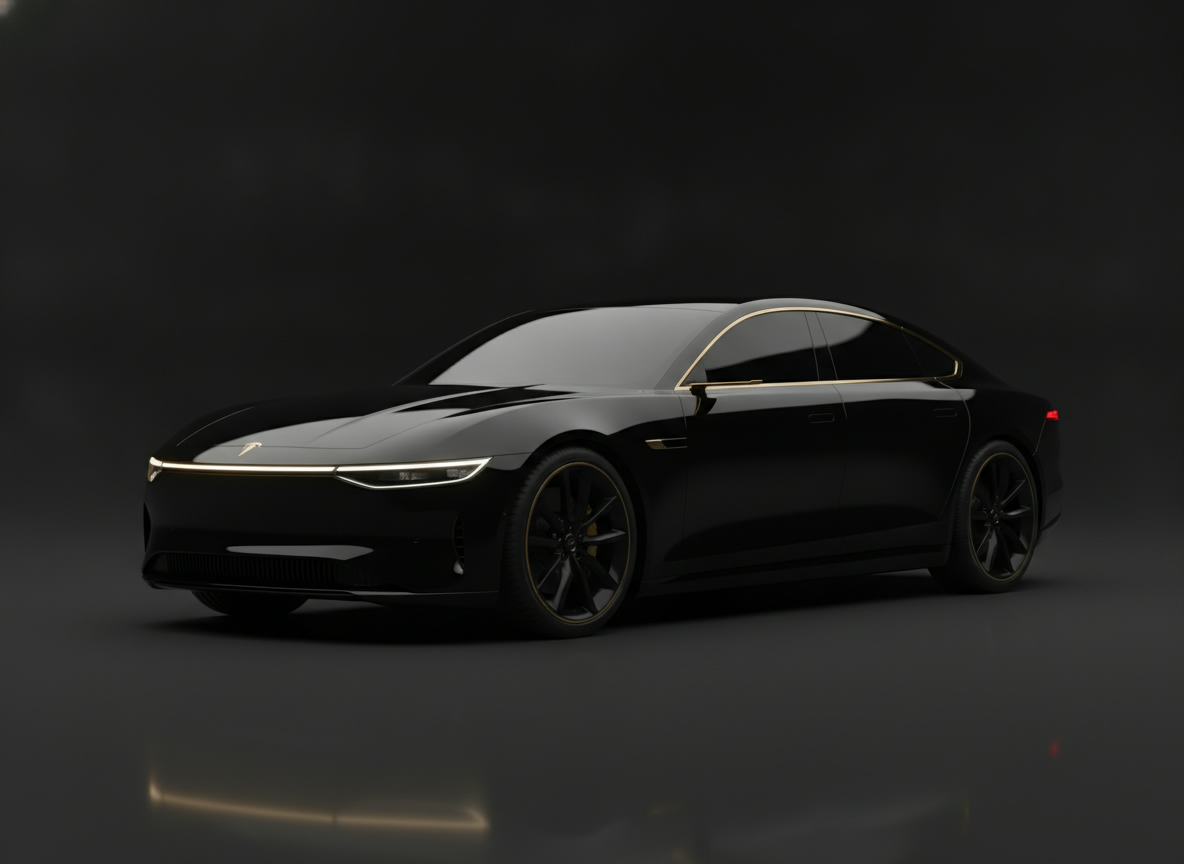
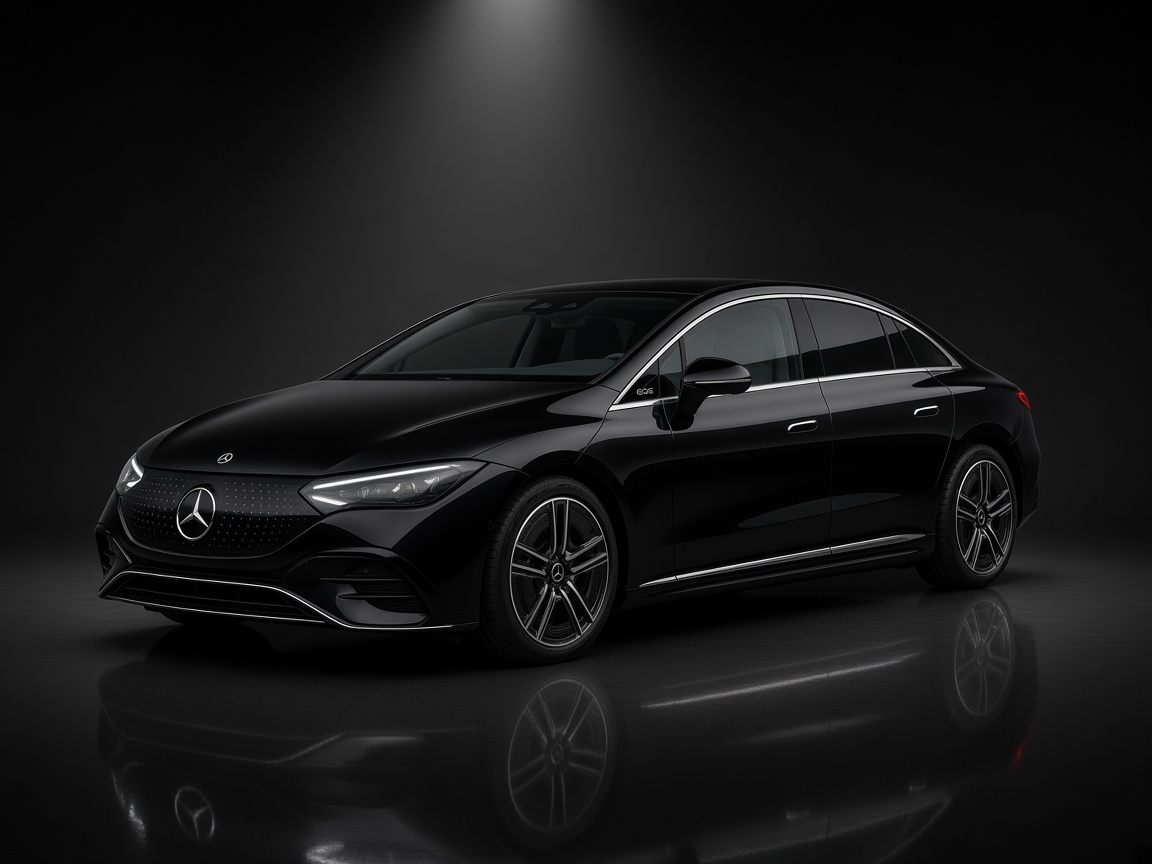
feat: footer social links and badges, Radlett office, help policy
- Footer: social icons with real profile URLs (Facebook, Instagram, LinkedIn, X, WhatsApp, YouTube); removed Pinterest/Snapchat/TikTok
- Footer: App Store/Google Play badges sized consistently (cropped Play SVG padding), TFL licence badge, fixed 2024 copyright
- Contact: add Radlett office address card (CORPORATE WHEELS LTD)
- Help: update Cancellation & Refunds policy (6-hour notice, 50% charge)
- Fleet: replace Tesla render with Mercedes-Benz EQE; add E-Class image for Business Executive
- SocialConnect: swap founder image to PNG

diff --git a/client/components/site/Footer.tsx b/client/components/site/Footer.tsx
@@ -2,6 +2,101 @@ import { useState } from "react";
 import { Link } from "react-router-dom";
 import { useToast } from "@/hooks/use-toast";
 
+// Social profiles shown in the footer brand column.
+const SOCIAL_LINKS = [
+  {
+    label: "Facebook",
+    href: "https://www.facebook.com/people/Corporate-Wheels/61583863736398/",
+    icon: (
+      <svg viewBox="0 0 24 24" className="h-9 w-9" aria-hidden="true">
+        <circle cx="12" cy="12" r="12" fill="#1877F2" />
+        <svg x="7.9" y="5.5" width="8.2" height="13" viewBox="0 0 320 512">
+          <path
+            fill="#fff"
+            d="M279.14 288l14.22-92.66h-88.91v-60.13c0-25.35 12.42-50.06 52.24-50.06h40.42V6.26S260.43 0 225.36 0c-73.22 0-121.08 44.38-121.08 124.72v70.62H22.89V288h81.39v224h100.17V288z"
+          />
+        </svg>
+      </svg>
+    ),
+  },
+  {
+    label: "Instagram",
+    href: "https://www.instagram.com/corporate_wheels",
+    icon: (
+      <svg viewBox="0 0 24 24" className="h-9 w-9" aria-hidden="true">
+        <defs>
+          <radialGradient id="cw-ig-gradient" cx="0.3" cy="1.1" r="1.3">
+            <stop offset="0%" stopColor="#FFD600" />
+            <stop offset="35%" stopColor="#FF7A00" />
+            <stop offset="60%" stopColor="#FF0069" />
+            <stop offset="90%" stopColor="#7638FA" />
+          </radialGradient>
+        </defs>
+        <rect width="24" height="24" rx="6" fill="url(#cw-ig-gradient)" />
+        <rect x="4.2" y="4.2" width="15.6" height="15.6" rx="4.4" fill="none" stroke="#fff" strokeWidth="1.8" />
+        <circle cx="12" cy="12" r="3.7" fill="none" stroke="#fff" strokeWidth="1.8" />
+        <circle cx="16.4" cy="7.6" r="1.1" fill="#fff" />
+      </svg>
+    ),
+  },
+  {
+    label: "LinkedIn",
+    href: "https://www.linkedin.com/company/corporate-wheels-pvt-ltd/",
+    icon: (
+      <svg viewBox="0 0 24 24" className="h-9 w-9" aria-hidden="true">
+        <rect width="24" height="24" rx="4" fill="#0A66C2" />
+        <svg x="6.3" y="5.5" width="11.4" height="13" viewBox="0 0 448 512">
+          <path
+            fill="#fff"
+            d="M100.28 448H7.4V148.9h92.88zM53.79 108.1C24.09 108.1 0 83.5 0 53.8a53.79 53.79 0 0 1 107.58 0c0 29.7-24.1 54.3-53.79 54.3zM447.9 448h-92.68V302.4c0-34.7-.7-79.2-48.29-79.2-48.29 0-55.69 37.7-55.69 76.7V448h-92.78V148.9h89.08v40.8h1.3c12.4-23.5 42.69-48.3 87.88-48.3 94 0 111.28 61.9 111.28 119.6V448z"
+          />
+        </svg>
+      </svg>
+    ),
+  },
+  {
+    label: "X (Twitter)",
+    href: "https://x.com/_corporatewheel",
+    icon: (
+      <svg viewBox="0 0 24 24" className="h-9 w-9" aria-hidden="true">
+        <circle cx="12" cy="12" r="12" fill="#000" />
+        <circle cx="12" cy="12" r="11.6" fill="none" stroke="rgba(255,255,255,0.25)" strokeWidth="0.8" />
+        <svg x="6.5" y="6.5" width="11" height="11" viewBox="0 0 512 512">
+          <path
+            fill="#fff"
+            d="M389.2 48h70.6L305.6 224.2 487 464H345L233.7 318.6 106.5 464H35.8L200.7 275.5 26.8 48H172.4L272.9 180.9 389.2 48zM364.4 421.8h39.1L151.1 88h-42L364.4 421.8z"
+          />
+        </svg>
+      </svg>
+    ),
+  },
+  {
+    label: "WhatsApp",
+    href: "https://wa.me/4403333553755?text=Hi%20Corporate%20Wheels%2C%20I%27d%20like%20to%20enquire%20about%20a%20chauffeur%20booking.",
+    icon: (
+      <svg viewBox="0 0 24 24" className="h-9 w-9" aria-hidden="true">
+        <circle cx="12" cy="12" r="12" fill="#25D366" />
+        <svg x="5.9" y="5" width="12.2" height="14" viewBox="0 0 448 512">
+          <path
+            fill="#fff"
+            d="M380.9 97.1C339 55.1 283.2 32 223.9 32c-122.4 0-222 99.6-222 222 0 39.1 10.2 77.3 29.6 111L0 480l117.7-30.9c32.4 17.7 68.9 27 106.1 27h.1c122.3 0 224.1-99.6 224.1-222 0-59.3-25.2-115-67.1-157zm-157 341.6c-33.2 0-65.7-8.9-94-25.7l-6.7-4-69.8 18.3L72 359.2l-4.4-7c-18.5-29.4-28.2-63.3-28.2-98.2 0-101.7 82.8-184.5 184.6-184.5 49.3 0 95.6 19.2 130.4 54.1 34.8 34.9 56.2 81.2 56.1 130.5 0 101.8-84.9 184.6-186.6 184.6zm101.2-138.2c-5.5-2.8-32.8-16.2-37.9-18-5.1-1.9-8.8-2.8-12.5 2.8-3.7 5.6-14.3 18-17.6 21.6-3.2 3.7-6.5 4.2-12 1.4-32.6-16.3-54-29.1-75.5-66-5.7-9.8 5.7-9.1 16.3-30.3 1.8-3.7.9-6.9-.5-9.7-1.4-2.8-12.5-30.1-17.1-41.2-4.5-10.8-9.1-9.3-12.5-9.5-3.2-.2-6.9-.2-10.6-.2-3.7 0-9.7 1.4-14.7 6.9-5.1 5.6-19.4 19-19.4 46.3 0 27.3 19.9 53.7 22.6 57.4 2.8 3.7 39.1 59.7 94.8 83.8 35.2 15.2 49 16.5 66.6 13.9 10.7-1.6 32.8-13.4 37.4-26.4 4.6-13 4.6-24.1 3.2-26.4-1.3-2.5-5.1-3.9-10.6-6.6z"
+          />
+        </svg>
+      </svg>
+    ),
+  },
+  {
+    label: "YouTube",
+    href: "https://www.youtube.com/channel/UCOSJtjdCIlGSk0SaNlN3UPA",
+    icon: (
+      <svg viewBox="0 0 24 24" className="h-9 w-9" aria-hidden="true">
+        <rect x="0.5" y="3.5" width="23" height="17" rx="4.5" fill="#FF0000" />
+        <path d="M10 8.6v6.8l6.2-3.4z" fill="#fff" />
+      </svg>
+    ),
+  },
+];
+
 export default function Footer() {
   const { toast } = useToast();
   const [email, setEmail] = useState("");
@@ -37,16 +132,61 @@ export default function Footer() {
           </p>
 
           <div className="space-y-4">
-            <div className="mt-6 flex items-center gap-4">
-              <div className="w-16">
-                <img
-                  src="/images/cw-placeholder.svg"
-                  alt="ICO"
-                  className="w-full h-auto object-contain"
-                />
+            <div className="mt-6 w-24 rounded-lg bg-white p-1.5">
+              <img
+                src="/images/tfl-logo.png"
+                alt="Licensed by Transport for London — Private Hire Operator Licence No. 12096"
+                className="w-full h-auto object-contain"
+              />
+            </div>
+          </div>
+
+          {/* Social media + app store badges (left brand column) */}
+          <div className="space-y-5 pt-2">
+            <div>
+              <h4 className="text-neutral-900 dark:text-white font-heading font-semibold text-sm uppercase tracking-wider mb-3">
+                Follow Us
+              </h4>
+              <div className="flex flex-wrap items-center gap-2">
+                {SOCIAL_LINKS.map((social) => (
+                  <a
+                    key={social.label}
+                    href={social.href}
+                    target="_blank"
+                    rel="noreferrer"
+                    aria-label={social.label}
+                    className="transition-transform duration-200 hover:scale-110 hover:-translate-y-0.5"
+                  >
+                    {social.icon}
+                  </a>
+                ))}
               </div>
             </div>
 
+            <div className="flex flex-wrap items-center gap-3">
+              <a
+                href="#"
+                aria-label="Download on the App Store"
+                className="transition-opacity duration-200 hover:opacity-80"
+              >
+                <img
+                  src="/images/download-on-the-app-store.svg"
+                  alt="Download on the App Store"
+                  className="h-10 w-auto"
+                />
+              </a>
+              <a
+                href="#"
+                aria-label="Get it on Google Play"
+                className="transition-opacity duration-200 hover:opacity-80"
+              >
+                <img
+                  src="/images/GetItOnGooglePlay_Badge_Web_color_English-01.svg"
+                  alt="Get it on Google Play"
+                  className="h-10 w-auto"
+                />
+              </a>
+            </div>
           </div>
         </div>
 
@@ -175,7 +315,7 @@ export default function Footer() {
       <div className="border-t border-black/10 dark:border-white/10 bg-white/60 dark:bg-black/60">
         <div className="container py-6 text-xs text-muted-foreground flex flex-col md:flex-row items-center justify-between font-light">
           <p>
-            © {new Date().getFullYear()} Corporate Wheels. All rights reserved.
+            © 2024 Corporate Wheels. All rights reserved.
           </p>
           <p className="mt-2 md:mt-0 italic text-neutral-900/30 dark:text-white/30">
             Built for comfort, designed for the future.

diff --git a/client/pages/Contact.tsx b/client/pages/Contact.tsx
@@ -22,7 +22,16 @@ import {
 import Seo from "@/components/Seo";
 
 // Corporate Locations
-const locationsData = [
+type OfficeLocation = {
+  name: string;
+  address: string;
+  badge: string;
+  phone?: string;
+  email?: string;
+  timezone?: string;
+};
+
+const locationsData: OfficeLocation[] = [
   {
     name: "Corporate Wheels HQ",
     address: "450 Bath Road, Longford, Heathrow, UB7 0EB",
@@ -30,6 +39,11 @@ const locationsData = [
     email: "info@corporatewheels.co.uk",
     badge: "Registered Office",
     timezone: "GMT / BST"
+  },
+  {
+    name: "CORPORATE WHEELS LTD",
+    address: "Nurali Barkatali Virani\nCentre 42 Watling Street\nRadlett\nWD7 7NN\nUnited Kingdom",
+    badge: "Office Address"
   }
 ];
 
@@ -361,20 +375,26 @@ export default function Contact() {
                         <div className="space-y-2.5 text-xs sm:text-sm text-white/50 leading-relaxed font-light">
                           <div className="flex items-start gap-2.5">
                             <MapPin className="w-4 h-4 text-corporate-gold shrink-0 mt-0.5" />
-                            <span>{loc.address}</span>
+                            <span className="whitespace-pre-line">{loc.address}</span>
                           </div>
-                          <div className="flex items-center gap-2.5">
-                            <Phone className="w-4 h-4 text-corporate-gold shrink-0" />
-                            <span>{loc.phone}</span>
-                          </div>
-                          <div className="flex items-center gap-2.5">
-                            <Mail className="w-4 h-4 text-corporate-gold shrink-0" />
-                            <span>{loc.email}</span>
-                          </div>
-                          <div className="flex items-center gap-2.5">
-                            <Clock className="w-4 h-4 text-corporate-gold shrink-0" />
-                            <span>Timezone: {loc.timezone}</span>
-                          </div>
+                          {loc.phone && (
+                            <div className="flex items-center gap-2.5">
+                              <Phone className="w-4 h-4 text-corporate-gold shrink-0" />
+                              <span>{loc.phone}</span>
+                            </div>
+                          )}
+                          {loc.email && (
+                            <div className="flex items-center gap-2.5">
+                              <Mail className="w-4 h-4 text-corporate-gold shrink-0" />
+                              <span>{loc.email}</span>
+                            </div>
+                          )}
+                          {loc.timezone && (
+                            <div className="flex items-center gap-2.5">
+                              <Clock className="w-4 h-4 text-corporate-gold shrink-0" />
+                              <span>Timezone: {loc.timezone}</span>
+                            </div>
+                          )}
                         </div>
                       </div>
                     </div>

diff --git a/client/components/landing/PremiumFleet.tsx b/client/components/landing/PremiumFleet.tsx
@@ -16,17 +16,8 @@ interface FleetClass {
 
 const fleetClasses: FleetClass[] = [
   {
-    title: "VVIP Class",
-    car: "Mercedes-Benz E-Class",
-    desc: "Speed and elegance are the main requirements for businessmen's cars, therefore the Mercedes-Benz E-Class is the best choice to travel with you.",
-    passengers: "3 passengers",
-    suitcases: "3 suitcases",
-    image: "/images/fleet-premium/vvip-class.jpg",
-    slug: "executive-cars",
-  },
-  {
     title: "Luxury (VIP Class)",
-    car: "Mercedes-Benz S-Class",
+    car: "Mercedes-Benz S-Class | BMW 7 Series",
     desc: "A luxuriously comfortable seat and enough leg room for our VIP clients.",
     passengers: "3 passengers",
     suitcases: "3 suitcases",
@@ -34,16 +25,16 @@ const fleetClasses: FleetClass[] = [
     slug: "luxury-class",
   },
   {
-    title: "Premium SUVs",
-    car: "Range Rover Autobiography",
-    desc: "The stylish, elegant, dignified, spacious nature of a car irrespective of weather.",
-    passengers: "4 passengers",
-    suitcases: "5 suitcases",
-    image: "/images/fleet-premium/premium-suv.jpg",
-    slug: "premium-suvs",
+    title: "Business Executive",
+    car: "Mercedes-Benz E-Class | BMW 5 Series",
+    desc: "Speed and elegance are the main requirements for businessmen's cars, therefore the Mercedes-Benz E-Class is the best choice to travel with you.",
+    passengers: "3 passengers",
+    suitcases: "3 suitcases",
+    image: "/images/fleet-premium/business-executive.jpg",
+    slug: "luxury-class",
   },
   {
-    title: "Business MPVs",
+    title: "Business SUVs",
     car: "Mercedes-Benz V-Class",
     desc: "Spacious interiors and flexible seats arrangement perfectly tailor-made for business delegates.",
     passengers: "7 passengers",
@@ -52,8 +43,17 @@ const fleetClasses: FleetClass[] = [
     slug: "business-vans",
   },
   {
+    title: "Premium SUVs",
+    car: "Range Rover",
+    desc: "The stylish, elegant, dignified, spacious nature of a car irrespective of weather.",
+    passengers: "4 passengers",
+    suitcases: "5 suitcases",
+    image: "/images/fleet-premium/premium-suv.jpg",
+    slug: "premium-suvs",
+  },
+  {
     title: "Electric Class",
-    car: "Mercedes-Benz EQS",
+    car: "Mercedes-Benz EQE",
     desc: "Silent, emission neutral, eco-friendly, and luxuriously modern cars.",
     passengers: "3 passengers",
     suitcases: "3 suitcases",
@@ -61,7 +61,7 @@ const fleetClasses: FleetClass[] = [
     slug: "electric-class",
   },
   {
-    title: "Vintage & Classic",
+    title: "VVIP Vintage & Classic",
     car: "Rolls-Royce Silver Cloud",
     desc: "The style and exclusive character of England in classical design that match for weddings and VIP events.",
     passengers: "3 passengers",

diff --git a/client/pages/Help.tsx b/client/pages/Help.tsx
@@ -106,11 +106,23 @@ const sections = [
           <ul className="space-y-2">
             <li className="flex items-start gap-2">
               <div className="w-1 h-1 rounded-full bg-corporate-gold mt-2"></div>
-              <span>Free cancellation up to 1 hour before pickup</span>
+              <span>Free cancellation outside the minimum notice period for your booking</span>
             </li>
             <li className="flex items-start gap-2">
               <div className="w-1 h-1 rounded-full bg-corporate-gold mt-2"></div>
-              <span>50% refund for cancellations within 1 hour</span>
+              <span>50% charge for cancellations within 6 hours of pickup</span>
+            </li>
+            <li className="flex items-start gap-2">
+              <div className="w-1 h-1 rounded-full bg-corporate-gold mt-2"></div>
+              <span>Luxury bookings (Cars or MPVs): minimum notice 6 hours (Inner London) and 12 hours (elsewhere)</span>
+            </li>
+            <li className="flex items-start gap-2">
+              <div className="w-1 h-1 rounded-full bg-corporate-gold mt-2"></div>
+              <span>Pre-booked specialist vehicles (other than Luxury) require double the notice period of Standard Cars</span>
+            </li>
+            <li className="flex items-start gap-2">
+              <div className="w-1 h-1 rounded-full bg-corporate-gold mt-2"></div>
+              <span>No changes for ASAP bookings</span>
             </li>
             <li className="flex items-start gap-2">
               <div className="w-1 h-1 rounded-full bg-corporate-gold mt-2"></div>

diff --git a/client/pages/SocialConnect.tsx b/client/pages/SocialConnect.tsx
@@ -169,7 +169,7 @@ export default function SocialConnect() {
           <div className="mx-auto w-full max-w-sm sm:max-w-md lg:max-w-none">
             <div className="overflow-hidden rounded-2xl border-2 border-[#E3A501]/70 shadow-[0_0_40px_rgba(227,165,1,0.25)]">
               <img
-                src="/socialconnect/founder.jpg"
+                src="/socialconnect/founder.png"
                 alt="Nurali Virani, founder of Corporate Wheels"
                 width={1080}
                 height={1350}
